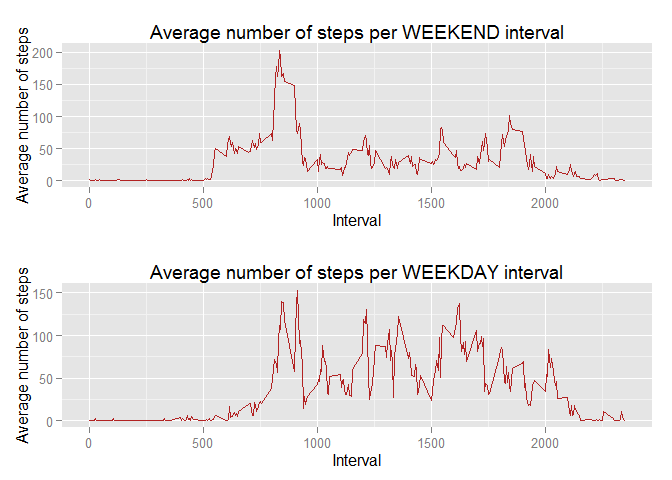
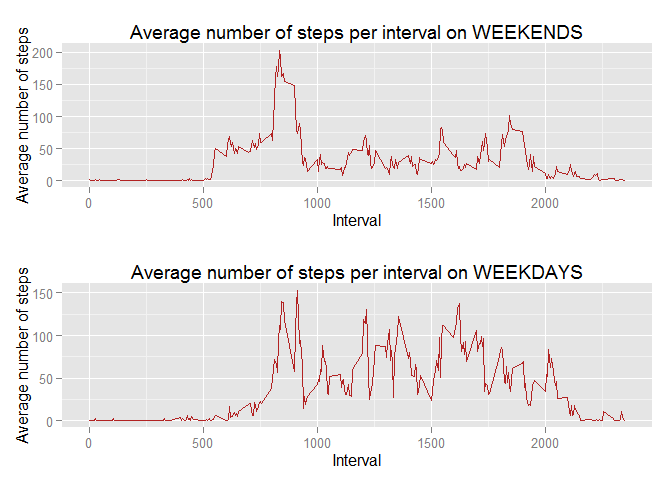
Mostly formatting changes, also removed removal of NAs where not needed.

Changed region(s): [[0.1875, 0.5312, 0.875, 0.5938], [0.1875, 0.0312, 0.875, 0.0938]]

diff --git a/PA1_template.html b/PA1_template.html
@@ -185,7 +185,7 @@ str(actDataInterp)</code></pre>
 ##  $ interval: int  0 5 10 15 20 25 30 35 40 45 ...</code></pre>
 <p>We recalculate the total number of steps per day, using the interpolated data</p>
 <pre class="r"><code>totalStepsPerDayInterp &lt;- actDataInterp %&gt;% group_by(date) %&gt;%
-  summarize(stepsPerDayInterp = sum(steps, na.rm=TRUE))
+  summarize(stepsPerDayInterp = sum(steps))
 str(totalStepsPerDayInterp)</code></pre>
 <pre><code>## Classes 'tbl_df', 'tbl' and 'data.frame':    61 obs. of  2 variables:
 ##  $ date             : POSIXct, format: &quot;2012-10-01&quot; &quot;2012-10-02&quot; ...
@@ -197,16 +197,16 @@ str(totalStepsPerDayInterp)</code></pre>
   ggtitle(&quot;Histogram of total number of steps taken per day, interpolated data&quot;) +
   labs(x = &quot;Total number of steps per day&quot;, y = &quot;Frequency&quot;)</code></pre>
[1 lines of base64/hex data omitted]
-<p>The mean total number of steps taken per day is then</p>
+<p>The <strong>mean</strong> total number of steps taken per day is then</p>
 <pre class="r"><code>mean(totalStepsPerDayInterp$stepsPerDayInterp)</code></pre>
 <pre><code>## [1] 9354.23</code></pre>
-<p>The median total number of steps taken per day is then</p>
+<p>The <strong>median</strong> total number of steps taken per day is then</p>
 <pre class="r"><code>median(totalStepsPerDayInterp$stepsPerDayInterp)</code></pre>
 <pre><code>## [1] 10395</code></pre>
-<p>Unsurprisingly, The difference between the <strong>means</strong> is</p>
+<p>Unsurprisingly, The difference between the means is</p>
 <pre class="r"><code>mean(totalStepsPerDay$stepsPerDay) - mean(totalStepsPerDayInterp$stepsPerDayInterp)</code></pre>
 <pre><code>## [1] 0</code></pre>
-<p>and, the difference between the <strong>medians</strong> is</p>
+<p>and, the difference between the medians is</p>
 <pre class="r"><code>median(totalStepsPerDay$stepsPerDay) - median(totalStepsPerDayInterp$stepsPerDayInterp)</code></pre>
 <pre><code>## [1] 0</code></pre>
 <p>As calculated previously, the total daily number of steps, in this particular dataset, <strong>does not change</strong> when linear interpolation is used to fill in missing values.</p>
@@ -239,17 +239,17 @@ meanStepsPerWeekendIntervalInterp &lt;- actDataInterp %&gt;%
 <p>We plot this average against time:</p>
 <pre class="r"><code>plotWeekends &lt;- ggplot(meanStepsPerWeekendIntervalInterp, aes(x=interval, y=stepsPerWeekendInterval)) + 
   geom_line(color=&quot;firebrick&quot;) +
-  ggtitle(&quot;Average number of steps per WEEKDAY interval&quot;) +
+  ggtitle(&quot;Average number of steps per interval on WEEKDAYS&quot;) +
   labs(x = &quot;Interval&quot;, y = &quot;Average number of steps&quot;)
 
 
 plotWeekdays &lt;- ggplot(meanStepsPerWeekdayIntervalInterp, aes(x=interval, y=stepsPerWeekdayInterval)) + 
   geom_line(color=&quot;firebrick&quot;) +
-  ggtitle(&quot;Average number of steps per WEEKEND interval&quot;) +
+  ggtitle(&quot;Average number of steps per interval on WEEKENDS&quot;) +
   labs(x = &quot;Interval&quot;, y = &quot;Average number of steps&quot;)
 
 grid.arrange( plotWeekdays, plotWeekends, ncol=1)</code></pre>
[2 lines of base64/hex data omitted]
 </div>
 
 

diff --git a/PA1_template.md b/PA1_template.md
@@ -247,7 +247,7 @@ We recalculate the total number of steps per day, using the interpolated data
 
 ```r
 totalStepsPerDayInterp <- actDataInterp %>% group_by(date) %>%
-  summarize(stepsPerDayInterp = sum(steps, na.rm=TRUE))
+  summarize(stepsPerDayInterp = sum(steps))
 str(totalStepsPerDayInterp)
 ```
 
@@ -272,7 +272,7 @@ ggplot(totalStepsPerDayInterp, aes(x=stepsPerDayInterp)) +
 ![](PA1_template_files/figure-html/unnamed-chunk-18-1.png) 
 
 
-The mean total number of steps taken per day is then
+The **mean** total number of steps taken per day is then
 
 ```r
 mean(totalStepsPerDayInterp$stepsPerDayInterp)
@@ -283,7 +283,7 @@ mean(totalStepsPerDayInterp$stepsPerDayInterp)
 ```
 
 
-The median total number of steps taken per day is then
+The **median** total number of steps taken per day is then
 
 ```r
 median(totalStepsPerDayInterp$stepsPerDayInterp)
@@ -294,7 +294,7 @@ median(totalStepsPerDayInterp$stepsPerDayInterp)
 ```
 
 
-Unsurprisingly, The difference between the **means** is
+Unsurprisingly, The difference between the means is
 
 ```r
 mean(totalStepsPerDay$stepsPerDay) - mean(totalStepsPerDayInterp$stepsPerDayInterp)
@@ -304,7 +304,7 @@ mean(totalStepsPerDay$stepsPerDay) - mean(totalStepsPerDayInterp$stepsPerDayInte
 ## [1] 0
 ```
 
-and, the difference between the **medians** is
+and, the difference between the medians is
 
 ```r
 median(totalStepsPerDay$stepsPerDay) - median(totalStepsPerDayInterp$stepsPerDayInterp)
@@ -363,13 +363,13 @@ We plot this average against time:
 ```r
 plotWeekends <- ggplot(meanStepsPerWeekendIntervalInterp, aes(x=interval, y=stepsPerWeekendInterval)) + 
   geom_line(color="firebrick") +
-  ggtitle("Average number of steps per WEEKDAY interval") +
+  ggtitle("Average number of steps per interval on WEEKDAYS") +
   labs(x = "Interval", y = "Average number of steps")
 
 
 plotWeekdays <- ggplot(meanStepsPerWeekdayIntervalInterp, aes(x=interval, y=stepsPerWeekdayInterval)) + 
   geom_line(color="firebrick") +
-  ggtitle("Average number of steps per WEEKEND interval") +
+  ggtitle("Average number of steps per interval on WEEKENDS") +
   labs(x = "Interval", y = "Average number of steps")
 
 grid.arrange( plotWeekdays, plotWeekends, ncol=1)
